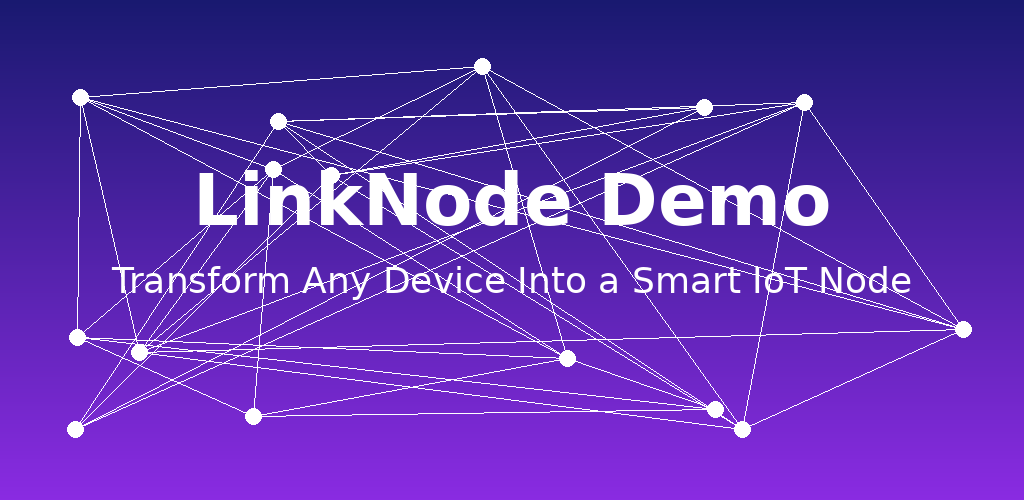
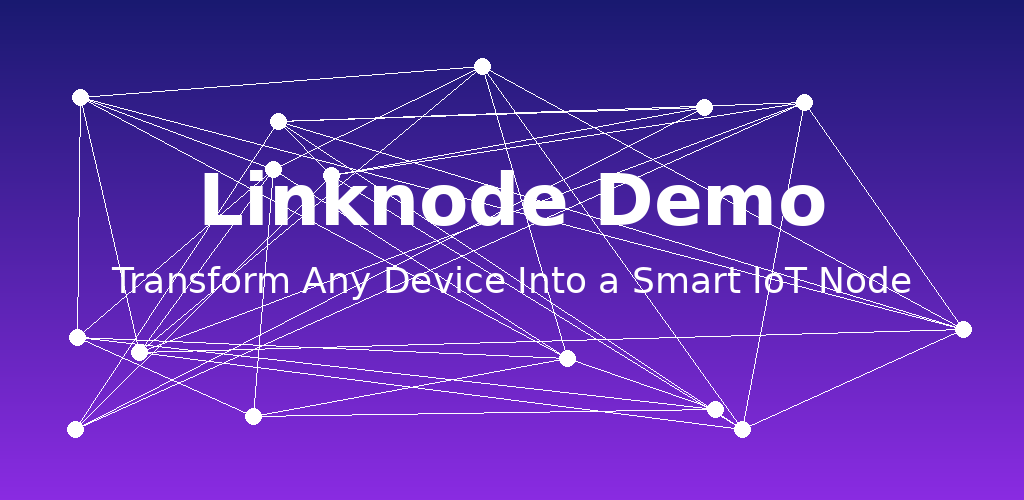
Refactor LinkNode to Linknode in all documentation and metadata
- Update Play Store metadata files
- Update release notes and changelogs
- Update documentation files
- Regenerate graphics with Linknode branding
- Maintain consistency across all project files

🤖 Generated with Claude Code

Changed region(s): [[0.1875, 0.33, 0.8125, 0.45]]

diff --git a/scripts/create_play_store_graphics.py b/scripts/create_play_store_graphics.py
@@ -1,6 +1,6 @@
 #!/usr/bin/env python3
 """
-Create Google Play Store graphics for LinkNode Demo app
+Create Google Play Store graphics for Linknode Demo app
 """
 
 from PIL import Image, ImageDraw, ImageFont, ImageFilter
@@ -10,7 +10,7 @@ import os
 output_dir = "fastlane/metadata/android/en-US/images"
 os.makedirs(output_dir, exist_ok=True)
 
-# Define colors based on the LinkNode theme
+# Define colors based on the Linknode theme
 PRIMARY_COLOR = (63, 81, 181)  # Indigo
 SECONDARY_COLOR = (255, 87, 34)  # Deep Orange
 ACCENT_COLOR = (0, 188, 212)  # Cyan
@@ -111,7 +111,7 @@ def create_feature_graphic():
     
     if font_large:
         # Title
-        draw.text((width // 2, height // 2 - 50), "LinkNode Demo", 
+        draw.text((width // 2, height // 2 - 50), "Linknode Demo", 
                   fill=(255, 255, 255), font=font_large, anchor="mm")
         
         if font_medium:
@@ -148,7 +148,7 @@ def create_screenshots():
         font_body = None
     
     if font_title:
-        draw.text((width // 2, 140), "LinkNode Demo", fill=(255, 255, 255), font=font_title, anchor="mm")
+        draw.text((width // 2, 140), "Linknode Demo", fill=(255, 255, 255), font=font_title, anchor="mm")
     
     # Feature cards
     card_y = 300

diff --git a/RELEASE_NOTES.md b/RELEASE_NOTES.md
@@ -1,10 +1,10 @@
-# LinkNode Demo - Release Notes
+# Linknode Demo - Release Notes
 
 ## Version 1.0 - Initial Release
 
 ### 🎉 What's New
 
-Welcome to LinkNode Demo! This initial release showcases the power of transforming any Android device into a sophisticated IoT node.
+Welcome to Linknode Demo! This initial release showcases the power of transforming any Android device into a sophisticated IoT node.
 
 ### ✨ Key Features
 
@@ -40,7 +40,7 @@ Welcome to LinkNode Demo! This initial release showcases the power of transformi
 
 ### 📝 Notes
 
-- This is a demonstration app showcasing LinkNode capabilities
+- This is a demonstration app showcasing Linknode capabilities
 - For production deployments, please visit linknode.com
 - Feedback and suggestions welcome!
 

diff --git a/docs/INTERNAL_TESTING_SETUP.md b/docs/INTERNAL_TESTING_SETUP.md
@@ -1,6 +1,6 @@
 # Internal Testing Setup Guide
 
-This guide helps you set up Internal Testing for the LinkNode Demo app.
+This guide helps you set up Internal Testing for the Linknode Demo app.
 
 ## Step 1: Prepare the Keystore
 
@@ -57,7 +57,7 @@ The workflow will use the keystore that's already in the repository. Note: This 
 4. Add release notes:
    ```
    Initial internal testing release
-   - Core LinkNode Demo functionality
+   - Core Linknode Demo functionality
    - Testing Play Store integration
    ```
 5. Save and review

diff --git a/docs/GOOGLE_PLAY_SETUP.md b/docs/GOOGLE_PLAY_SETUP.md
@@ -1,6 +1,6 @@
 # Google Play Publishing Setup Guide
 
-This guide walks through setting up the Google Play publishing pipeline for the LinkNode Demo app.
+This guide walks through setting up the Google Play publishing pipeline for the Linknode Demo app.
 
 ## Prerequisites
 
